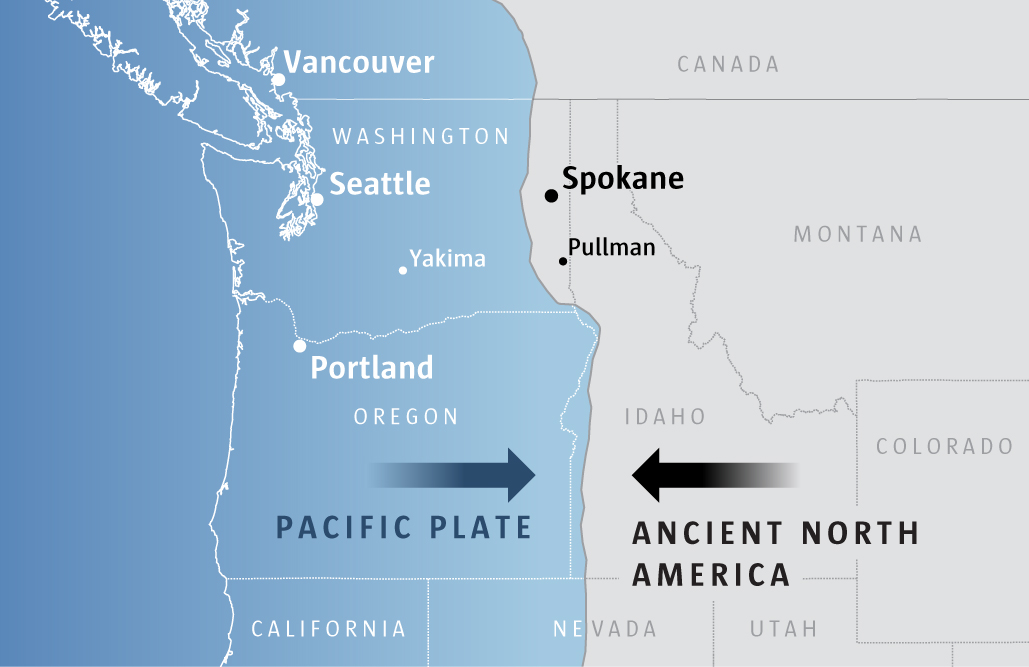
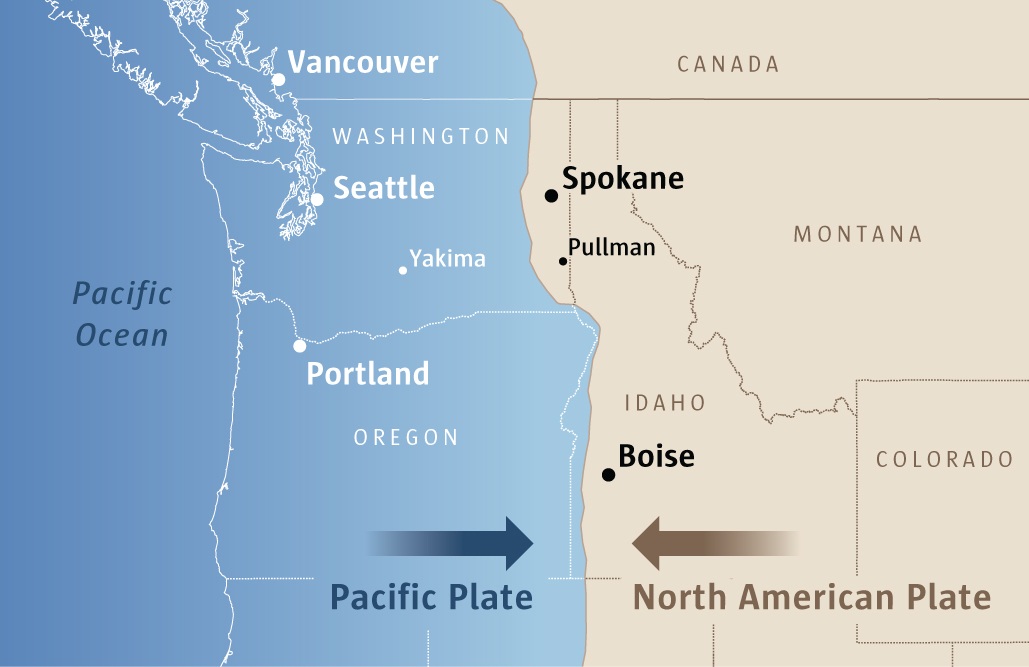
second commit

diff --git a/src/partials/_scrolly-graphic.html b/src/partials/_scrolly-graphic.html
@@ -11,11 +11,11 @@
          
          <img decoding="async" class="asset" src="./assets/CR-Rodinia.jpg">
          
-         <img decoding="async" class="asset" src="./assets/CR-geology-storyboard-04.jpg">
+         <img decoding="async" class="asset" src="./assets/CR-lava-floods-bg.jpg">
          
          <img decoding="async" class="asset" src="./assets/CR-geology-05.png">
          
-         <img decoding="async" class="asset" src="./assets/Columbia-Ice-Age-Floods-fullsize.jpg">
+         <img decoding="async" class="asset" src="./assets/CR-Ice-Age-Floods-bg.jpg">
 
          <img decoding="async" class="asset" src="./assets/CR-geology-07.png">
 
@@ -45,7 +45,7 @@
          </div>
          <div class="step" data-step="6">
           
-            <p><strong>Lava floods, Ice Age floods </strong>and the ancestral Columbia carved the steep canyons and coulees we see in eastern Washington today. <br><br>Within the past 95 years, humans used these natural formations to harness the Columbia’s mighty power.</p>
+            <p><strong>Lava floods, Ice Age floods </strong>and the ancestral Columbia carved the steep canyons and coulees we see in eastern Washington today. <br><br>Within the past 95 years, humans used these natural formations to harness the Columbia’s mighty power to produce electricity and to irrigate agriculture.</p>
            </div>
          <div class="step" data-step="7">
           
@@ -70,7 +70,7 @@
          display: flex;
          flex-direction: column;
          
-         padding: 1rem;
+         padding: 0rem;
        }
   
        #scrolly > * {
@@ -81,7 +81,7 @@
   
        main {
          position: relative;
-         padding: 0 1rem;
+         padding: 0 0rem;
          margin-top:40px;
          max-width: 100%;
        }
@@ -145,7 +145,7 @@
   
        .step p {
          text-align: left;
-         padding: 1rem;
+         padding: 2rem;
          font-size: 19px;
          margin-bottom:800px;
          
